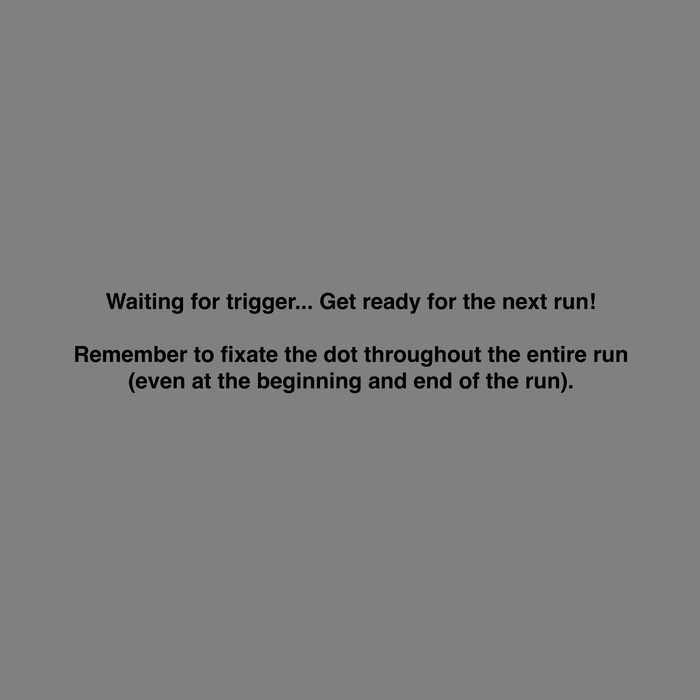
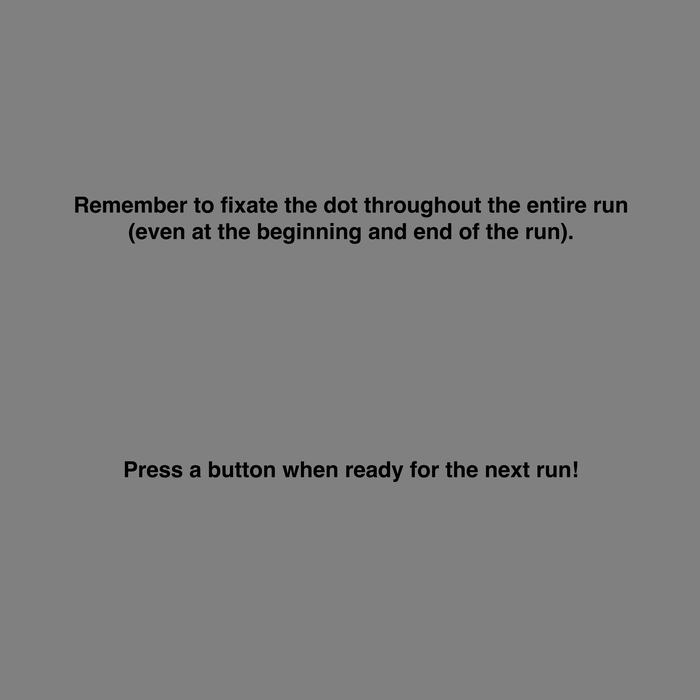
add blank screen with fixation dot after subject presses button pre run

diff --git a/stimpresentation/vcd_showStimulus.m b/stimpresentation/vcd_showStimulus.m
@@ -223,8 +223,8 @@ for nn = 1:size(run_frames.frame_event_nr,1)
 end
 
 % Use thin rim fixation circle for pre-run instruction screen.
-fix_tex_preruninstr  = fix_texture.thin_full{6}; % mid gray luminance (128)
-fix_rect_preruninstr = fix.fix_thin_rect{1};
+fix_tex_preruninstr  = fix_texture.thick_full{6}; % mid gray luminance (128)
+fix_rect_preruninstr = fix.fix_thick_rect{1};
 
 
 %% %%%%%%%%%%%%%%%%%%%%%%%%%%%%%%%%%%%%%%%%%%%%%%%%%%%%%%%%%%%%%%%%%%%%%%%%
@@ -374,6 +374,12 @@ while 1
     end
   end
 end
+
+% Draw background (gray screen) + thin rim fixation circle
+Screen('FillRect',win,params.stim.bckgrnd_grayval,rect); 
+Screen('DrawTexture',win,intro_tex,[], introscript.rect, 0, [], 1, 255*ones(1,3)); % draw intro text
+Screen('DrawTexture',win,fix_tex_preruninstr,[], fix_rect_preruninstr, 0, [], 1, 255*ones(1,3)); % draw thin fix circle
+Screen('Flip',win);
 
 fprintf('Press trigger key to begin the movie. (consider turning off network, energy saver, software updates, psychopy.)\n');
 
